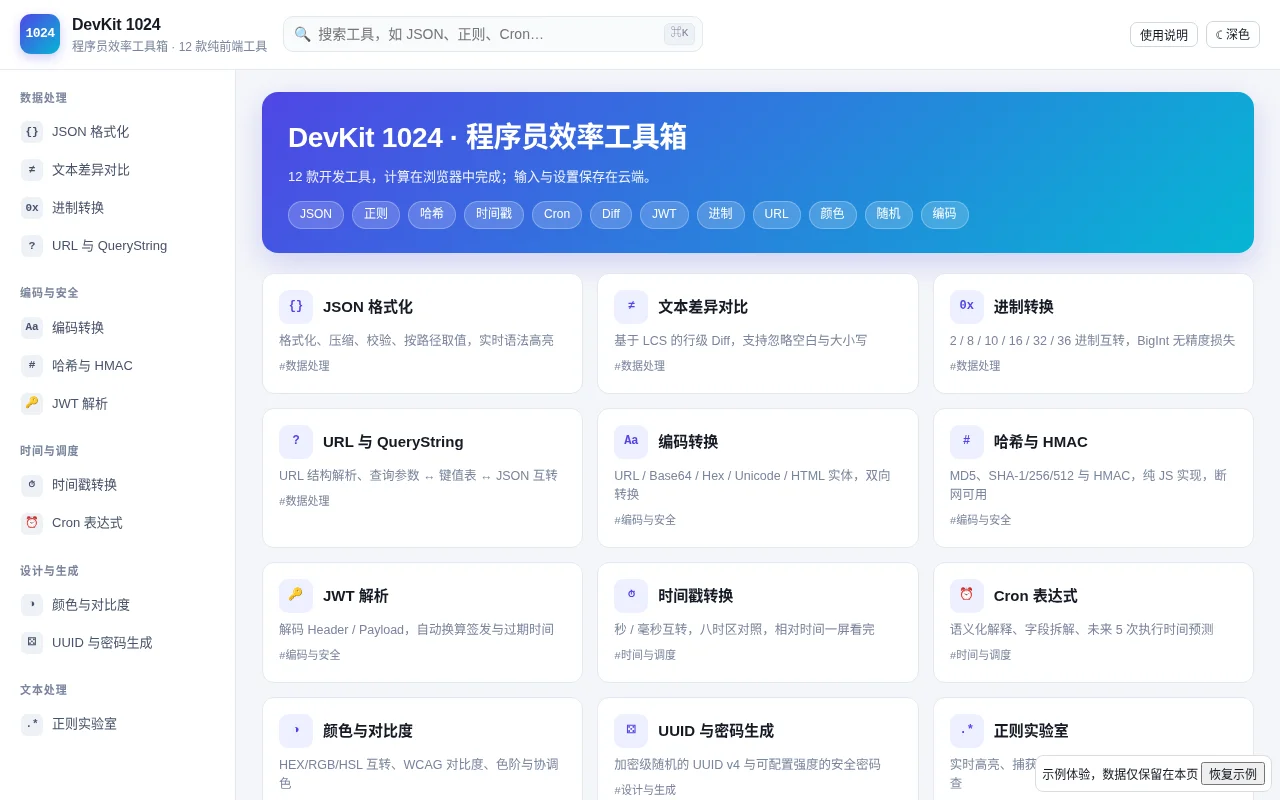
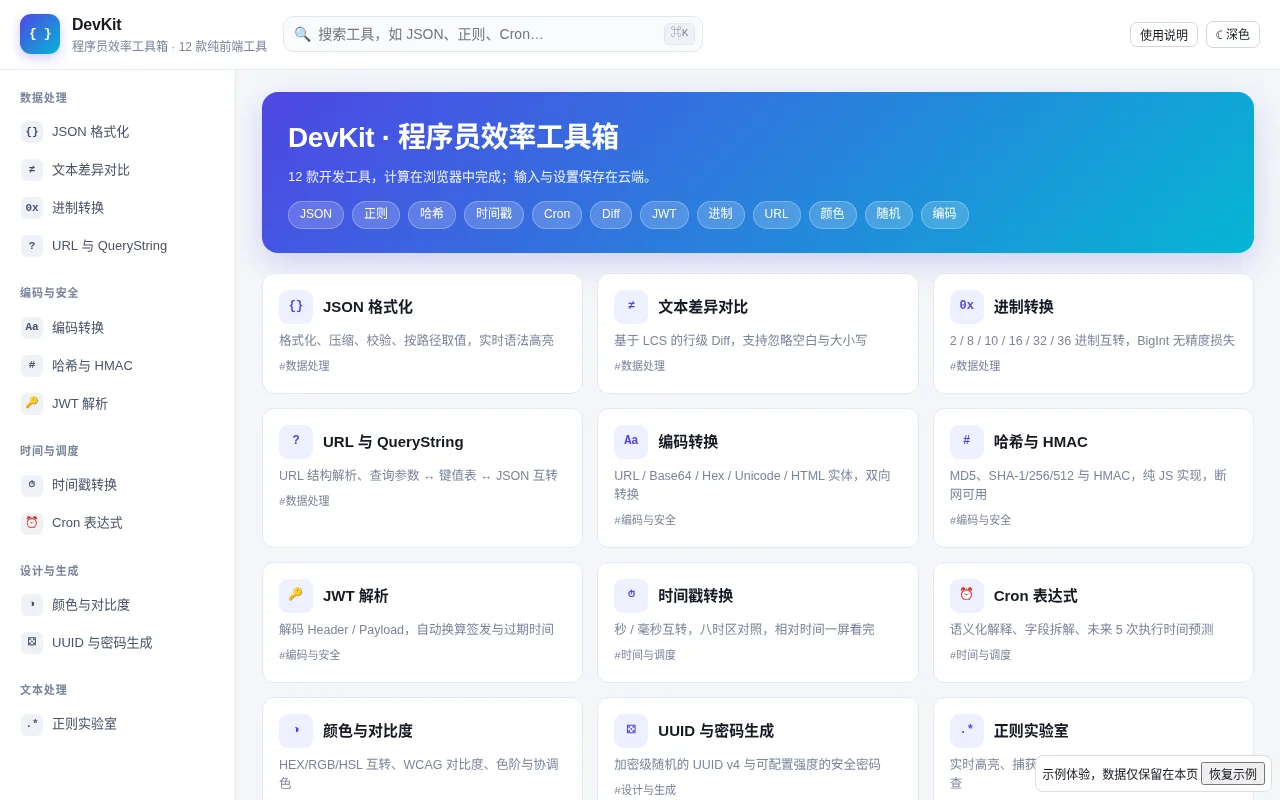
Remove activity branding from DevKit

Changed region(s): [[0.2812, 0.1562, 0.5625, 0.1875], [0.0938, 0.0, 0.125, 0.0625], [0.0, 0.0312, 0.0625, 0.0625]]

diff --git a/d4776ae9eb3c806f210fd909/src/app.js b/d4776ae9eb3c806f210fd909/src/app.js
@@ -1,6 +1,6 @@
 import { loadStorage, writeStorage } from './storage.js';
 document.documentElement.dataset.theme="light";
-document.body.innerHTML = "\n<div class=\"app\">\n  <header class=\"topbar\">\n    <div class=\"brand\">\n      <div class=\"logo\">1024</div>\n      <div class=\"brand-txt\">\n        <h1>DevKit 1024</h1>\n        <p>程序员效率工具箱 · 12 款纯前端工具</p>\n      </div>\n    </div>\n    <div class=\"search\">\n      <span class=\"ico\">&#128269;</span>\n      <input aria-label=\"搜索工具\" autocomplete=\"off\" id=\"q\" placeholder=\"搜索工具，如 JSON、正则、Cron…\" type=\"search\">\n      <kbd>&#8984;K</kbd>\n    </div>\n    <div class=\"top-actions\">\n      <button class=\"btn btn-mini\" id=\"helpBtn\" type=\"button\">使用说明</button>\n      <button class=\"btn btn-mini\" id=\"themeBtn\" type=\"button\">&#9788; 深色</button>\n    </div>\n  </header>\n  <div class=\"body\">\n    <nav aria-label=\"工具导航\" class=\"sidebar\" id=\"nav\"></nav>\n    <main class=\"main\" data-mode=\"home\" id=\"main\"></main>\n  </div>\n</div>\n\n<div aria-live=\"polite\" id=\"toast\" role=\"status\"></div>\n\n<div class=\"modal-mask\" id=\"help\">\n  <div class=\"modal\">\n    <h3>使用说明</h3>\n    <div class=\"hint-box\">\n      <p><b>工具计算在浏览器中进行。</b>输入与设置保存在此应用的云数据库中，请勿输入不适合保存的秘密。</p>\n      <p><b>键盘快捷键</b></p>\n      <ul>\n        <li><code>⌘K</code> / <code>Ctrl+K</code>：唤起搜索框</li>\n        <li><code>Enter</code>：在搜索框中打开第一个匹配工具</li>\n        <li><code>Esc</code>：清空搜索 / 关闭弹窗</li>\n      </ul>\n      <p><b>数据保存</b></p>\n      <ul>\n        <li>输入框内容、收藏和主题会自动保存在云端，刷新后可继续使用。</li>\n        <li>点击工具右上角的「☆ 收藏」可把它固定到侧边栏顶部的「常用」分组。</li>\n      </ul>\n      <p><b>关于实现</b></p>\n      <ul>\n        <li>MD5 / SHA-1 / SHA-256 / SHA-512 / HMAC 均为本页纯 JavaScript 实现，未使用 Web Crypto，因此离线环境同样可用。</li>\n        <li>进制换算基于 BigInt，可处理远超 Number 安全范围的超大整数。</li>\n        <li>随机数取自 <code>crypto.getRandomValues</code> 密码学随机源。</li>\n      </ul>\n    </div>\n    <button class=\"btn btn-primary close\" id=\"helpClose\" type=\"button\">知道了</button>\n  </div>\n</div>\n\n";
+document.body.innerHTML = "\n<div class=\"app\">\n  <header class=\"topbar\">\n    <div class=\"brand\">\n      <div class=\"logo\">{ }</div>\n      <div class=\"brand-txt\">\n        <h1>DevKit</h1>\n        <p>程序员效率工具箱 · 12 款纯前端工具</p>\n      </div>\n    </div>\n    <div class=\"search\">\n      <span class=\"ico\">&#128269;</span>\n      <input aria-label=\"搜索工具\" autocomplete=\"off\" id=\"q\" placeholder=\"搜索工具，如 JSON、正则、Cron…\" type=\"search\">\n      <kbd>&#8984;K</kbd>\n    </div>\n    <div class=\"top-actions\">\n      <button class=\"btn btn-mini\" id=\"helpBtn\" type=\"button\">使用说明</button>\n      <button class=\"btn btn-mini\" id=\"themeBtn\" type=\"button\">&#9788; 深色</button>\n    </div>\n  </header>\n  <div class=\"body\">\n    <nav aria-label=\"工具导航\" class=\"sidebar\" id=\"nav\"></nav>\n    <main class=\"main\" data-mode=\"home\" id=\"main\"></main>\n  </div>\n</div>\n\n<div aria-live=\"polite\" id=\"toast\" role=\"status\"></div>\n\n<div class=\"modal-mask\" id=\"help\">\n  <div class=\"modal\">\n    <h3>使用说明</h3>\n    <div class=\"hint-box\">\n      <p><b>工具计算在浏览器中进行。</b>输入与设置保存在此应用的云数据库中，请勿输入不适合保存的秘密。</p>\n      <p><b>键盘快捷键</b></p>\n      <ul>\n        <li><code>⌘K</code> / <code>Ctrl+K</code>：唤起搜索框</li>\n        <li><code>Enter</code>：在搜索框中打开第一个匹配工具</li>\n        <li><code>Esc</code>：清空搜索 / 关闭弹窗</li>\n      </ul>\n      <p><b>数据保存</b></p>\n      <ul>\n        <li>输入框内容、收藏和主题会自动保存在云端，刷新后可继续使用。</li>\n        <li>点击工具右上角的「☆ 收藏」可把它固定到侧边栏顶部的「常用」分组。</li>\n      </ul>\n      <p><b>关于实现</b></p>\n      <ul>\n        <li>MD5 / SHA-1 / SHA-256 / SHA-512 / HMAC 均为本页纯 JavaScript 实现，未使用 Web Crypto，因此离线环境同样可用。</li>\n        <li>进制换算基于 BigInt，可处理远超 Number 安全范围的超大整数。</li>\n        <li>随机数取自 <code>crypto.getRandomValues</code> 密码学随机源。</li>\n      </ul>\n    </div>\n    <button class=\"btn btn-primary close\" id=\"helpClose\" type=\"button\">知道了</button>\n  </div>\n</div>\n\n";
 
 // 本文件由构建脚本自动生成，请勿手工修改
 
@@ -72,7 +72,7 @@ var SHA512_H0 = [
 
 
 /* ============================================================
- * DevKit 1024 · 核心算法层
+ * DevKit · 核心算法层
  * 纯函数实现，无 DOM 依赖，可单独在 Node 中做正确性验证。
  * ============================================================ */
 'use strict';
@@ -1065,7 +1065,7 @@ if (typeof module !== 'undefined' && module.exports) {
 
 
 /* ============================================================
- * DevKit 1024 · 交互层
+ * DevKit · 交互层
  * ============================================================ */
 'use strict';
 
@@ -1354,7 +1354,7 @@ if (typeof module !== 'undefined' && module.exports) {
       }),
       mkBtn('示例', function () {
         input.ta.value = JSON.stringify({
-          project: 'DevKit 1024', version: '1.0.0', stars: 1024,
+          project: 'DevKit', version: '1.0.0', stars: 1234,
           tools: [{ name: 'JSON', hot: true }, { name: 'Cron', hot: false }],
           meta: { author: '开发者', tags: ['dev', 'tool'], released: '2026-01-01' }
         }, null, 2);
@@ -1399,7 +1399,7 @@ if (typeof module !== 'undefined' && module.exports) {
     input.ta.addEventListener('input', debounce(function () { renderIndent(2); }, 400));
     if (!input.ta.value.trim()) {
       input.ta.value = JSON.stringify({
-        project: 'DevKit 1024', version: '1.0.0', stars: 1024,
+        project: 'DevKit', version: '1.0.0', stars: 1234,
         tools: [{ name: 'JSON', hot: true }, { name: 'Cron', hot: false }],
         meta: { author: '开发者', tags: ['dev', 'tool'], released: '2026-01-01' }
       }, null, 2);
@@ -1433,7 +1433,7 @@ if (typeof module !== 'undefined' && module.exports) {
     flagInp.style.maxWidth = '80px';
     var text = mkTextarea({
       label: '待匹配文本', mono: true, rows: 8, key: 'regex.text',
-      value: '订单号 2026-1024 创建于 2026-10-22，联系邮箱 dev@example.com，备用 hi@example.com'
+      value: '订单号 2026-0428 创建于 2026-10-22，联系邮箱 dev@example.com，备用 hi@example.com'
     });
     var preview = el('pre', 'out mono');
     preview.style.minHeight = '150px';
@@ -1648,7 +1648,7 @@ if (typeof module !== 'undefined' && module.exports) {
   function buildEncode(host) {
     var input = mkTextarea({
       label: '原文', mono: true, rows: 8, key: 'encode.in',
-      value: 'Hello 1024 开发者！https://example.com/docs?name=开发者&v=1'
+      value: 'Hello 开发者！https://example.com/docs?name=开发者&v=1'
     });
     var out = mkOut({ label: '转换结果', minHeight: '200px' });
 
@@ -1698,7 +1698,7 @@ if (typeof module !== 'undefined' && module.exports) {
    * ============================================================ */
   function buildHash(host) {
     var input = mkTextarea({
-      label: '原文', mono: true, rows: 7, key: 'hash.in', value: '1024'
+      label: '原文', mono: true, rows: 7, key: 'hash.in', value: '1234'
     });
     var keyInp = mkInput({ mono: true, placeholder: 'HMAC 密钥（留空则计算普通摘要）' });
     var algoSel = mkSelect([
@@ -1734,7 +1734,7 @@ if (typeof module !== 'undefined' && module.exports) {
       el('span', 'field-label', '算法'), algoSel,
       el('span', 'field-label', '输出'), fmtSel,
       mkBtn('计算', run, 'btn-primary'),
-      mkBtn('示例', function () { input.ta.value = '1024 开发者'; run(); }),
+      mkBtn('示例', function () { input.ta.value = '开发者工具'; run(); }),
       mkBtn('清空', function () { input.ta.value = ''; keyInp.value = ''; out.setText(''); })
     ]));
     var kf = el('div', 'field');
@@ -2102,7 +2102,7 @@ if (typeof module !== 'undefined' && module.exports) {
       }),
       mkBtn('示例', function () {
         a.ta.value = '{\n  "name": "devkit",\n  "version": "0.9.0",\n  "tools": 10\n}';
-        b.ta.value = '{\n  "name": "devkit",\n  "version": "1.0.0",\n  "tools": 12,\n  "author": "1024"\n}';
+        b.ta.value = '{\n  "name": "devkit",\n  "version": "1.0.0",\n  "tools": 12,\n  "author": "developer"\n}';
         run();
       }),
       mkBtn('清空', function () { a.ta.value = ''; b.ta.value = ''; view.innerHTML = ''; })]));
@@ -2186,7 +2186,7 @@ if (typeof module !== 'undefined' && module.exports) {
     function fillSample() {
       var h = b64Encode(JSON.stringify({ alg: 'HS256', typ: 'JWT' })).replace(/=+$/, '').replace(/\+/g, '-').split('/').join('_');
       var exp = Math.floor(Date.now() / 1000) + 3600 * 24 * 7;
-      var p = b64Encode(JSON.stringify({ sub: '1024', name: '开发者', role: 'admin', iat: Math.floor(Date.now() / 1000), exp: exp })).replace(/=+$/, '').replace(/\+/g, '-').split('/').join('_');
+      var p = b64Encode(JSON.stringify({ sub: 'developer', name: '开发者', role: 'admin', iat: Math.floor(Date.now() / 1000), exp: exp })).replace(/=+$/, '').replace(/\+/g, '-').split('/').join('_');
       input.ta.value = h + '.' + p + '.SflKxwRJSMeKKF2QT4fwpMeJf36POk6yJV_adQssw5c';
     }
 
@@ -2239,7 +2239,7 @@ if (typeof module !== 'undefined' && module.exports) {
   ];
 
   function buildBase(host) {
-    var inp = mkInput({ mono: true, value: '1024' });
+    var inp = mkInput({ mono: true, value: '1234' });
     var fromSel = mkSelect(BASES, '10');
     var toSel = mkSelect(BASES, '16');
     var out = mkOut({ label: '转换结果', minHeight: '90px' });
@@ -2524,7 +2524,7 @@ if (typeof module !== 'undefined' && module.exports) {
     var wrap = el('div', 'wrap');
 
     var hero = el('div', 'hero');
-    hero.appendChild(el('h2', null, 'DevKit 1024 · 程序员效率工具箱'));
+    hero.appendChild(el('h2', null, 'DevKit · 程序员效率工具箱'));
     hero.appendChild(el('p', null, '12 款开发工具，计算在浏览器中完成；输入与设置保存在云端。'));
     var tags = el('div', 'hero-tags');
     ['JSON', '正则', '哈希', '时间戳', 'Cron', 'Diff', 'JWT', '进制', 'URL', '颜色', '随机', '编码'].forEach(function (t) {
@@ -2563,7 +2563,7 @@ if (typeof module !== 'undefined' && module.exports) {
     wrap.appendChild(grid);
 
     var foot = el('footer', 'foot');
-    foot.appendChild(el('div', null, 'DevKit 1024 · 程序员效率工具箱'));
+    foot.appendChild(el('div', null, 'DevKit · 程序员效率工具箱'));
     foot.appendChild(el('div', null, '按 ⌘K / Ctrl+K 唤起搜索，Esc 返回全部工具'));
     wrap.appendChild(foot);
     main.appendChild(wrap);
@@ -2587,14 +2587,14 @@ if (typeof module !== 'undefined' && module.exports) {
     wrap.appendChild(back);
     main.appendChild(wrap);
     main.scrollTop = 0;
-    document.title = t.name + ' · DevKit 1024';
+    document.title = t.name + ' · DevKit';
   }
 
   function route() {
     var id = currentId();
     if (id) renderTool(id); else renderHome('');
     renderNav();
-    if (!id) document.title = 'DevKit 1024 · 程序员效率工具箱';
+    if (!id) document.title = 'DevKit · 程序员效率工具箱';
   }
 
   /* ---------------- 帮助弹窗 ---------------- */

diff --git a/d4776ae9eb3c806f210fd909/showcase/preview.html b/d4776ae9eb3c806f210fd909/showcase/preview.html
@@ -4,11 +4,11 @@
 
 <meta charset="UTF-8">
 <meta content="width=device-width, initial-scale=1" name="viewport">
-<meta content="DevKit 1024 · 程序员效率工具箱：12 款工具，计算在浏览器中完成。" name="description">
-<title>DevKit 1024 · 程序员效率工具箱</title>
+<meta content="DevKit · 程序员效率工具箱：12 款工具，计算在浏览器中完成。" name="description">
+<title>DevKit · 程序员效率工具箱</title>
 <style>
 /* ============================================================
-   DevKit 1024 · 样式层
+   DevKit · 样式层
    ============================================================ */
 :root {
   --bg: #f4f6f9;
@@ -407,9 +407,9 @@ footer.foot { text-align: center; color: var(--muted); font-size: 12px; padding:
 <div class="app">
   <header class="topbar">
     <div class="brand">
-      <div class="logo">1024</div>
+      <div class="logo">{ }</div>
       <div class="brand-txt">
-        <h1>DevKit 1024</h1>
+        <h1>DevKit</h1>
         <p>程序员效率工具箱 · 12 款纯前端工具</p>
       </div>
     </div>
@@ -529,7 +529,7 @@ var SHA512_H0 = [
 </script>
 <script>
 /* ============================================================
- * DevKit 1024 · 核心算法层
+ * DevKit · 核心算法层
  * 纯函数实现，无 DOM 依赖，可单独在 Node 中做正确性验证。
  * ============================================================ */
 'use strict';
@@ -1522,7 +1522,7 @@ if (typeof module !== 'undefined' && module.exports) {
 </script>
 <script>
 /* ============================================================
- * DevKit 1024 · 交互层
+ * DevKit · 交互层
  * ============================================================ */
 'use strict';
 
@@ -1810,7 +1810,7 @@ if (typeof module !== 'undefined' && module.exports) {
       }),
       mkBtn('示例', function () {
         input.ta.value = JSON.stringify({
-          project: 'DevKit 1024', version: '1.0.0', stars: 1024,
+          project: 'DevKit', version: '1.0.0', stars: 1234,
           tools: [{ name: 'JSON', hot: true }, { name: 'Cron', hot: false }],
           meta: { author: '开发者', tags: ['dev', 'tool'], released: '2026-01-01' }
         }, null, 2);
@@ -1855,7 +1855,7 @@ if (typeof module !== 'undefined' && module.exports) {
     input.ta.addEventListener('input', debounce(function () { renderIndent(2); }, 400));
     if (!input.ta.value.trim()) {
       input.ta.value = JSON.stringify({
-        project: 'DevKit 1024', version: '1.0.0', stars: 1024,
+        project: 'DevKit', version: '1.0.0', stars: 1234,
         tools: [{ name: 'JSON', hot: true }, { name: 'Cron', hot: false }],
         meta: { author: '开发者', tags: ['dev', 'tool'], released: '2026-01-01' }
       }, null, 2);
@@ -1889,7 +1889,7 @@ if (typeof module !== 'undefined' && module.exports) {
     flagInp.style.maxWidth = '80px';
     var text = mkTextarea({
       label: '待匹配文本', mono: true, rows: 8, key: 'regex.text',
-      value: '订单号 2026-1024 创建于 2026-10-22，联系邮箱 dev@example.com，备用 hi@example.com'
+      value: '订单号 2026-0428 创建于 2026-10-22，联系邮箱 dev@example.com，备用 hi@example.com'
     });
     var preview = el('pre', 'out mono');
     preview.style.minHeight = '150px';
@@ -2104,7 +2104,7 @@ if (typeof module !== 'undefined' && module.exports) {
   function buildEncode(host) {
     var input = mkTextarea({
       label: '原文', mono: true, rows: 8, key: 'encode.in',
-      value: 'Hello 1024 开发者！https://example.com/docs?name=开发者&v=1'
+      value: 'Hello 开发者！https://example.com/docs?name=开发者&v=1'
     });
     var out = mkOut({ label: '转换结果', minHeight: '200px' });
 
@@ -2154,7 +2154,7 @@ if (typeof module !== 'undefined' && module.exports) {
    * ============================================================ */
   function buildHash(host) {
     var input = mkTextarea({
-      label: '原文', mono: true, rows: 7, key: 'hash.in', value: '1024'
+      label: '原文', mono: true, rows: 7, key: 'hash.in', value: '1234'
     });
     var keyInp = mkInput({ mono: true, placeholder: 'HMAC 密钥（留空则计算普通摘要）' });
     var algoSel = mkSelect([
@@ -2190,7 +2190,7 @@ if (typeof module !== 'undefined' && module.exports) {
       el('span', 'field-label', '算法'), algoSel,
       el('span', 'field-label', '输出'), fmtSel,
       mkBtn('计算', run, 'btn-primary'),
-      mkBtn('示例', function () { input.ta.value = '1024 开发者'; run(); }),
+      mkBtn('示例', function () { input.ta.value = '开发者工具'; run(); }),
       mkBtn('清空', function () { input.ta.value = ''; keyInp.value = ''; out.setText(''); })
     ]));
     var kf = el('div', 'field');
@@ -2558,7 +2558,7 @@ if (typeof module !== 'undefined' && module.exports) {
       }),
       mkBtn('示例', function () {
         a.ta.value = '{\n  "name": "devkit",\n  "version": "0.9.0",\n  "tools": 10\n}';
-        b.ta.value = '{\n  "name": "devkit",\n  "version": "1.0.0",\n  "tools": 12,\n  "author": "1024"\n}';
+        b.ta.value = '{\n  "name": "devkit",\n  "version": "1.0.0",\n  "tools": 12,\n  "author": "developer"\n}';
         run();
       }),
       mkBtn('清空', function () { a.ta.value = ''; b.ta.value = ''; view.innerHTML = ''; })]));
@@ -2642,7 +2642,7 @@ if (typeof module !== 'undefined' && module.exports) {
     function fillSample() {
       var h = b64Encode(JSON.stringify({ alg: 'HS256', typ: 'JWT' })).replace(/=+$/, '').replace(/\+/g, '-').split('/').join('_');
       var exp = Math.floor(Date.now() / 1000) + 3600 * 24 * 7;
-      var p = b64Encode(JSON.stringify({ sub: '1024', name: '开发者', role: 'admin', iat: Math.floor(Date.now() / 1000), exp: exp })).replace(/=+$/, '').replace(/\+/g, '-').split('/').join('_');
+      var p = b64Encode(JSON.stringify({ sub: 'developer', name: '开发者', role: 'admin', iat: Math.floor(Date.now() / 1000), exp: exp })).replace(/=+$/, '').replace(/\+/g, '-').split('/').join('_');
       input.ta.value = h + '.' + p + '.SflKxwRJSMeKKF2QT4fwpMeJf36POk6yJV_adQssw5c';
     }
 
@@ -2695,7 +2695,7 @@ if (typeof module !== 'undefined' && module.exports) {
   ];
 
   function buildBase(host) {
-    var inp = mkInput({ mono: true, value: '1024' });
+    var inp = mkInput({ mono: true, value: '1234' });
     var fromSel = mkSelect(BASES, '10');
     var toSel = mkSelect(BASES, '16');
     var out = mkOut({ label: '转换结果', minHeight: '90px' });
@@ -2980,7 +2980,7 @@ if (typeof module !== 'undefined' && module.exports) {
     var wrap = el('div', 'wrap');
 
     var hero = el('div', 'hero');
-    hero.appendChild(el('h2', null, 'DevKit 1024 · 程序员效率工具箱'));
+    hero.appendChild(el('h2', null, 'DevKit · 程序员效率工具箱'));
     hero.appendChild(el('p', null, '12 款开发工具，计算在浏览器中完成；输入与设置保存在云端。'));
     var tags = el('div', 'hero-tags');
     ['JSON', '正则', '哈希', '时间戳', 'Cron', 'Diff', 'JWT', '进制', 'URL', '颜色', '随机', '编码'].forEach(function (t) {
@@ -3019,7 +3019,7 @@ if (typeof module !== 'undefined' && module.exports) {
     wrap.appendChild(grid);
 
     var foot = el('footer', 'foot');
-    foot.appendChild(el('div', null, 'DevKit 1024 · 程序员效率工具箱'));
+    foot.appendChild(el('div', null, 'DevKit · 程序员效率工具箱'));
     foot.appendChild(el('div', null, '按 ⌘K / Ctrl+K 唤起搜索，Esc 返回全部工具'));
     wrap.appendChild(foot);
     main.appendChild(wrap);
@@ -3043,14 +3043,14 @@ if (typeof module !== 'undefined' && module.exports) {
     wrap.appendChild(back);
     main.appendChild(wrap);
     main.scrollTop = 0;
-    document.title = t.name + ' · DevKit 1024';
+    document.title = t.name + ' · DevKit';
   }
 
   function route() {
     var id = currentId();
     if (id) renderTool(id); else renderHome('');
     renderNav();
-    if (!id) document.title = 'DevKit 1024 · 程序员效率工具箱';
+    if (!id) document.title = 'DevKit · 程序员效率工具箱';
   }
 
   /* ---------------- 帮助弹窗 ---------------- */

diff --git a/d4776ae9eb3c806f210fd909/src/style.css b/d4776ae9eb3c806f210fd909/src/style.css
@@ -1,6 +1,6 @@
 
 /* ============================================================
-   DevKit 1024 · 样式层
+   DevKit · 样式层
    ============================================================ */
 :root {
   --bg: #f4f6f9;

diff --git a/d4776ae9eb3c806f210fd909/showcase/prompt.md b/d4776ae9eb3c806f210fd909/showcase/prompt.md
@@ -1,1 +1,1 @@
-使用 DevKit 1024 模板制作开发工具箱。通过 `tiana web init-template d4776ae9eb3c806f210fd909` 获取源码，保留 12 款工具、搜索、收藏和云端保存，并按需定制。
+使用 DevKit 模板制作开发工具箱。通过 `tiana web init-template d4776ae9eb3c806f210fd909` 获取源码，保留 12 款工具、搜索、收藏和云端保存，并按需定制。

diff --git a/d4776ae9eb3c806f210fd909/spec/product.md b/d4776ae9eb3c806f210fd909/spec/product.md
@@ -1,3 +1,3 @@
-# DevKit 1024
+# DevKit
 
 浏览器工具箱包含 JSON、正则、时间戳、编码、哈希与 HMAC、UUID 与密码、Cron、颜色与对比度、文本差异、JWT、进制和 URL。侧栏分组，搜索与收藏定位工具；支持亮暗主题、手机布局和复制。输入、收藏和主题保存在云数据库；计算在浏览器中运行。

diff --git a/d4776ae9eb3c806f210fd909/README.md b/d4776ae9eb3c806f210fd909/README.md
@@ -1,3 +1,3 @@
-# DevKit 1024
+# DevKit
 
 12 款开发工具在浏览器内计算，输入、收藏和主题保存在应用的 SQLite 数据库。按 metadata.json 配置 Git 与 SQLite 绑定并初始化 schema.sql，然后使用 `npm ci` 和 `npm run build` 构建。请勿输入不适合存储的秘密。
